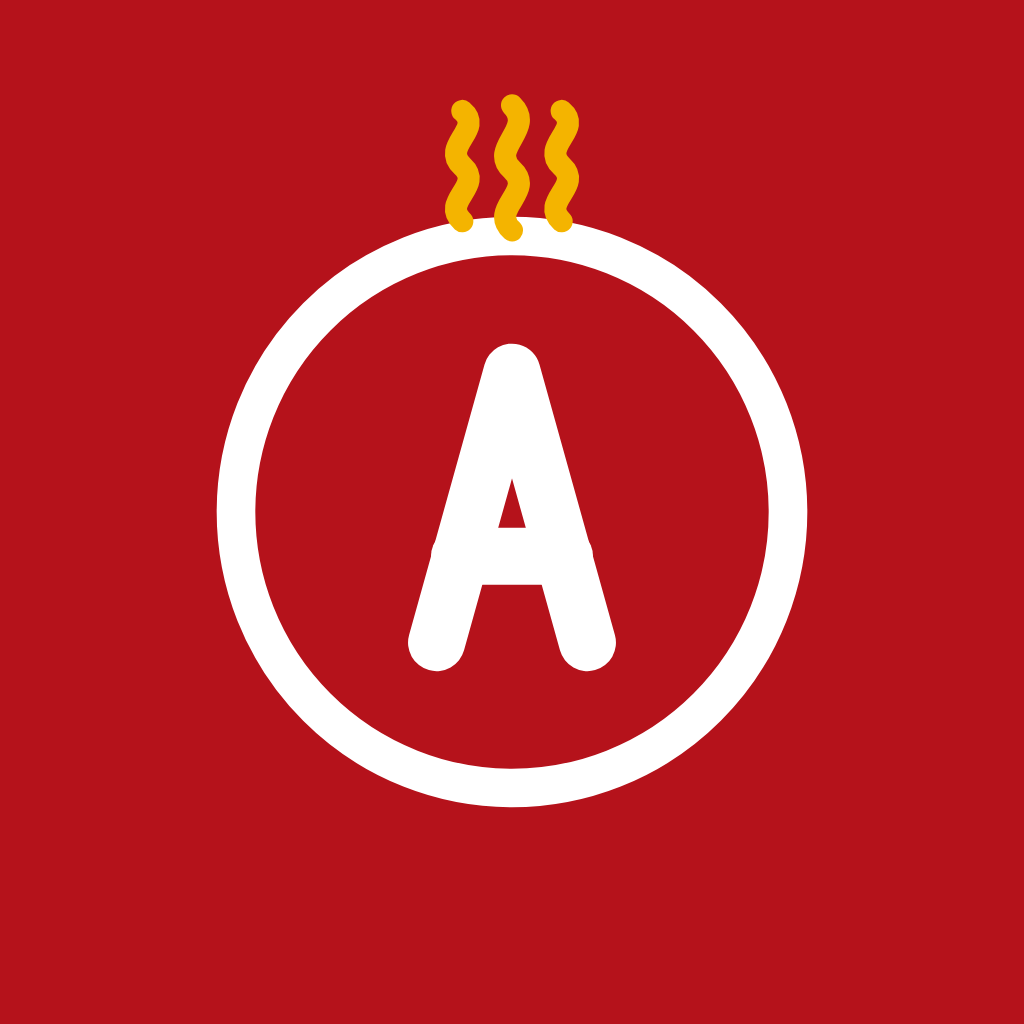
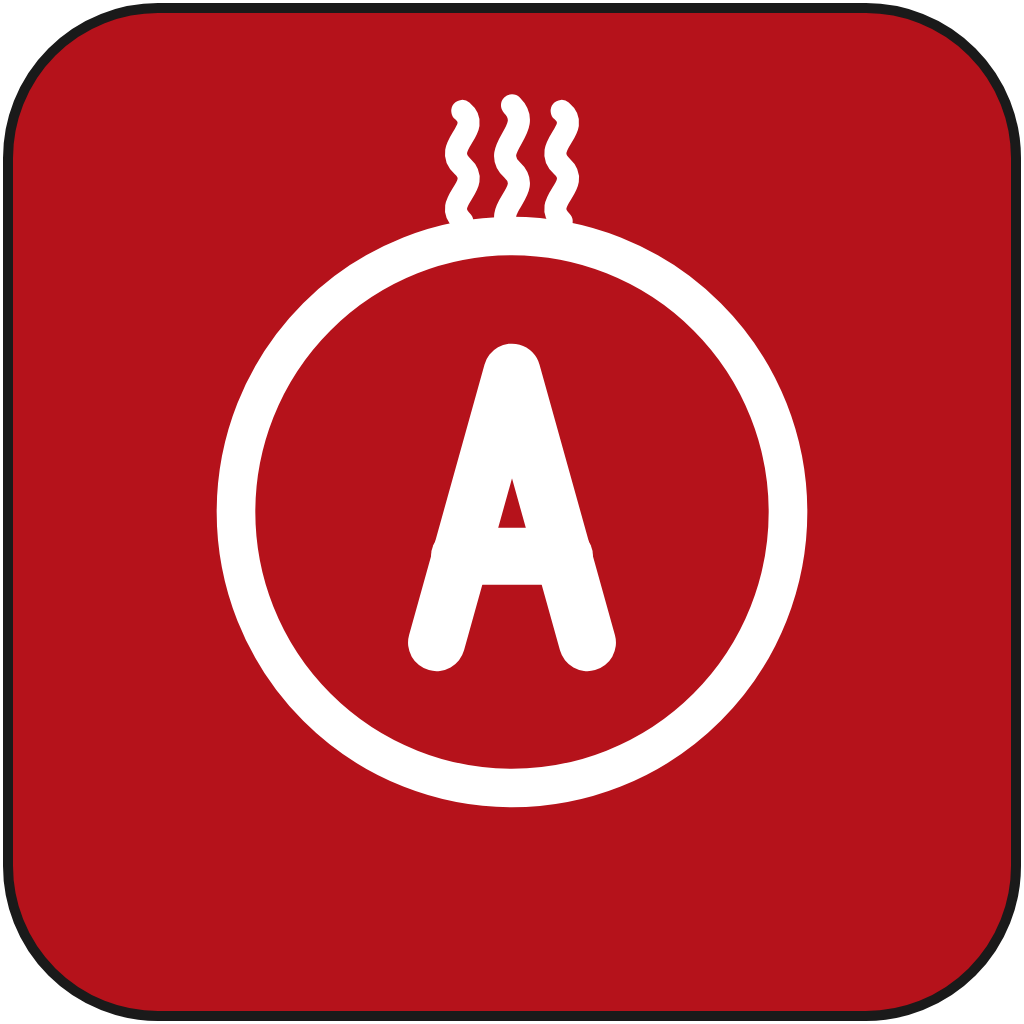
Marca do cliente: paleta vermelho+branco+preto (conceito KFC), símbolo único
Adota a tríade do KFC (apetite/limpeza/herança) a 100% na marca do
cliente e unifica tudo num só símbolo: quadrado vermelho + prato branco
+ retrato a traço (preto) da fundadora. Mesmo símbolo no ícone, no
logótipo e no novo letreiro vertical (montra/marketing).

- Ícone, adaptativo (frente), splash e favicon do cliente passam ao
  símbolo do retrato; monocromático/temático mantém o "A" abstrato.
- Logótipo e letreiro em vermelho+branco+preto; sem dourado na marca.
- Dourado reservado a realce funcional na app (selos, Prato do dia,
  estrelas) — paleta-base curta + uma cor de ação. Lógica dos selos
  inalterada.
- Operador (marca MB) inalterado.

Uso da imagem da fundadora mediante autorização; fotos-base fornecidas
pelo negócio.

Claude-Session: https://claude.ai/code/session_012YAn7mGDrLwbXxtn7pEh3R

Changed region(s): [[0.0, 0.0, 1.0, 1.0], [0.4375, 0.0938, 0.5625, 0.25]]

diff --git a/docs/marca/gerar.py b/docs/marca/gerar.py
@@ -1,15 +1,16 @@
 # Marcas das apps.
-# Cliente — Cozinha da Alexandra: rosto estilizado da fundadora (persona, estilo "Coronel" do KFC)
-#   dentro do prato creme, com vapor dourado. Versão abstrata (anel + "A" + vapor) usada no ícone
-#   monocromático (temático) do Android, onde um rosto a uma só cor não funciona.
-# Operador — Manda Bué: anel + monograma "MB" + linhas de velocidade douradas (entrega).
-VERMELHO = '#B5121B'; CARVAO = '#1F1A17'; BRANCO = '#FFFFFF'; DOURADO = '#F4B400'; SUAVE = '#5F6368'
-CREME = '#FBF0DA'; PELE = '#774C31'; PELE_ESC = '#5E3A24'; CABELO = '#241812'
-TOP = '#33403F'; TOP2 = '#46555A'; BOCA = '#50241B'
+# Cliente — Cozinha da Alexandra (conceito KFC, paleta VERMELHO + BRANCO + PRETO):
+#   quadrado vermelho + prato branco + retrato a traço (preto) da fundadora. Mesmo símbolo no
+#   ícone, logótipo e letreiro. Dourado NÃO entra na marca — fica só como realce funcional na app
+#   (selos, "Prato do dia", estrelas). Versão abstrata (anel + "A") só no ícone monocromático.
+# Operador — Manda Bué: anel + "MB" + linhas de velocidade (entrega), inalterado.
+VERMELHO = '#B5121B'; CARVAO = '#1F1A17'; PRETO = '#1A1A1A'; BRANCO = '#FFFFFF'; DOURADO = '#F4B400'
+SUAVE = '#5F6368'
+FONTE = 'Liberation Sans, Arial, Helvetica, sans-serif'
 
 
 def marca(anel=BRANCO, letras=BRANCO, linhas=DOURADO):
-    """Manda Bué (operador): anel + MB + linhas de velocidade. Área 1024, centro (512,512)."""
+    """Manda Bué (operador): anel + MB + linhas de velocidade. Centro (512,512)."""
     return f'''
   <g fill="none" stroke-linecap="round" stroke-linejoin="round">
     <circle cx="540" cy="512" r="292" stroke="{anel}" stroke-width="40"/>
@@ -19,8 +20,8 @@ def marca(anel=BRANCO, letras=BRANCO, linhas=DOURADO):
   </g>'''
 
 
-def marca_alexandra(anel=BRANCO, letra=BRANCO, vapor=DOURADO):
-    """Versão abstrata: anel + "A" + vapor (usada no ícone monocromático)."""
+def marca_A(anel=BRANCO, letra=BRANCO, vapor=BRANCO):
+    """Versão abstrata: anel + "A" + vapor (ícone monocromático e marca de apoio). Centro (512,512)."""
     return f'''
   <g fill="none" stroke-linecap="round" stroke-linejoin="round">
     <circle cx="512" cy="512" r="300" stroke="{anel}" stroke-width="42"/>
@@ -32,78 +33,82 @@ def marca_alexandra(anel=BRANCO, letra=BRANCO, vapor=DOURADO):
   </g>'''
 
 
-def rosto(vapor=True):
-    """Rosto estilizado da Alexandra dentro do prato creme. Centro (512,500)."""
-    v = f'''
-  <g fill="none" stroke="{DOURADO}" stroke-width="24" stroke-linecap="round">
-    <path d="M458 150 C434 128 482 112 458 90 C434 68 482 52 458 34"/>
-    <path d="M512 160 C486 136 538 118 512 94 C486 70 538 50 512 26"/>
-    <path d="M566 150 C542 128 590 112 566 90 C542 68 590 52 566 34"/>
-  </g>''' if vapor else ''
+def _retrato(cor=PRETO, dente=BRANCO):
+    """Retrato a traço (coords próprias, rosto ~ centro 600,540). Preto, sorriso aberto (Foto 2)."""
     return f'''
-  <clipPath id="prato"><circle cx="512" cy="500" r="336"/></clipPath>
-  <circle cx="512" cy="500" r="336" fill="{CREME}"/>
-  <g clip-path="url(#prato)">
-    <path d="M150 905 C210 718 352 664 512 664 C672 664 814 718 874 905 Z" fill="{TOP}"/>
-    <path d="M150 905 C210 760 352 712 512 712 C672 712 814 760 874 905 Z" fill="{TOP2}" opacity="0.5"/>
-    <path d="M454 566 h116 v96 a58 58 0 0 1 -116 0 Z" fill="{PELE_ESC}"/>
-    <ellipse cx="350" cy="470" rx="28" ry="40" fill="{PELE}"/>
-    <ellipse cx="674" cy="470" rx="28" ry="40" fill="{PELE}"/>
-    <circle cx="350" cy="516" r="14" fill="{DOURADO}"/>
-    <circle cx="674" cy="516" r="14" fill="{DOURADO}"/>
-    <path d="M362 452 C362 300 662 300 662 452 C662 580 596 648 512 648 C428 648 362 580 362 452 Z" fill="{PELE}"/>
-    <g fill="{CABELO}">
-      <path d="M360 452 C330 452 322 392 340 356 C318 330 338 286 372 288 C372 250 420 232 452 252 C470 214 548 210 572 250 C612 236 664 256 660 300 C700 302 712 356 686 390 C708 420 690 470 660 462 C664 404 646 366 614 352 C560 332 470 330 418 352 C384 366 362 400 360 452 Z"/>
-      <circle cx="356" cy="372" r="34"/><circle cx="392" cy="322" r="34"/><circle cx="440" cy="296" r="32"/>
-      <circle cx="500" cy="286" r="34"/><circle cx="560" cy="292" r="32"/><circle cx="612" cy="318" r="32"/>
-      <circle cx="652" cy="360" r="32"/><circle cx="668" cy="408" r="26"/><circle cx="346" cy="416" r="26"/>
-    </g>
-    <path d="M414 436 Q448 422 482 434" stroke="{CABELO}" stroke-width="10" fill="none" stroke-linecap="round"/>
-    <path d="M542 434 Q576 422 610 436" stroke="{CABELO}" stroke-width="10" fill="none" stroke-linecap="round"/>
-    <ellipse cx="450" cy="472" rx="27" ry="18" fill="{BRANCO}"/>
-    <ellipse cx="574" cy="472" rx="27" ry="18" fill="{BRANCO}"/>
-    <circle cx="453" cy="474" r="12" fill="{CABELO}"/>
-    <circle cx="571" cy="474" r="12" fill="{CABELO}"/>
-    <path d="M512 486 Q498 530 486 540 Q500 552 512 548 Q524 552 538 540 Q526 530 512 486 Z" fill="{PELE_ESC}" opacity="0.55"/>
-    <path d="M454 578 Q512 636 570 578 Q512 600 454 578 Z" fill="{BOCA}"/>
-    <path d="M470 582 Q512 598 554 582 Q512 592 470 582 Z" fill="{CREME}"/>
-    <circle cx="420" cy="528" r="22" fill="#8A5636" opacity="0.4"/>
-    <circle cx="604" cy="528" r="22" fill="#8A5636" opacity="0.4"/>
-  </g>{v}'''
+    <path d="M600 150 C468 150 372 240 360 366 C356 410 360 448 370 478 C384 432 410 392 448 372 C508 342 692 342 752 372 C790 392 816 432 830 478 C840 448 844 410 840 366 C828 240 732 150 600 150 Z" fill="{cor}"/>
+    <path d="M402 418 C388 520 402 612 470 674 C512 712 560 728 600 728 C640 728 688 712 730 674 C798 612 812 520 798 418" fill="none" stroke="{cor}" stroke-width="11" stroke-linecap="round"/>
+    <path d="M402 470 q-26 6 -20 44 q8 26 28 22" fill="none" stroke="{cor}" stroke-width="9"/>
+    <path d="M798 470 q26 6 20 44 q-8 26 -28 22" fill="none" stroke="{cor}" stroke-width="9"/>
+    <circle cx="410" cy="556" r="12" fill="none" stroke="{cor}" stroke-width="9"/>
+    <circle cx="790" cy="556" r="12" fill="none" stroke="{cor}" stroke-width="9"/>
+    <path d="M452 452 Q496 434 540 452" stroke="{cor}" stroke-width="10" fill="none" stroke-linecap="round"/>
+    <path d="M660 452 Q704 434 748 452" stroke="{cor}" stroke-width="10" fill="none" stroke-linecap="round"/>
+    <path d="M454 486 Q496 462 540 486 Q498 502 454 486 Z" fill="none" stroke="{cor}" stroke-width="9"/>
+    <path d="M660 486 Q704 462 748 486 Q706 502 660 486 Z" fill="none" stroke="{cor}" stroke-width="9"/>
+    <circle cx="497" cy="484" r="11" fill="{cor}"/>
+    <circle cx="703" cy="484" r="11" fill="{cor}"/>
+    <path d="M600 500 Q590 556 584 566" stroke="{cor}" stroke-width="8" fill="none" stroke-linecap="round"/>
+    <path d="M576 576 Q600 592 624 576" stroke="{cor}" stroke-width="8" fill="none" stroke-linecap="round"/>
+    <path d="M506 612 Q600 648 694 612 Q600 740 506 612 Z" fill="{dente}" stroke="{cor}" stroke-width="11" stroke-linejoin="round"/>
+    <path d="M524 620 Q600 648 676 620" stroke="{cor}" stroke-width="7" fill="none"/>
+    <path d="M486 596 Q470 626 486 656" stroke="{cor}" stroke-width="7" fill="none" stroke-linecap="round"/>
+    <path d="M714 596 Q730 626 714 656" stroke="{cor}" stroke-width="7" fill="none" stroke-linecap="round"/>'''
 
 
-def svg(conteudo, fundo=None, escala=1.0, tamanho=1024):
-    f = f'<rect width="1024" height="1024" fill="{fundo}"/>' if fundo else ''
+def simbolo_rosto(cx=512, cy=512, raio=438, esc=0.96):
+    """Prato branco + retrato preto (o símbolo da marca). Centro (cx,cy)."""
+    # retrato centrado: leva o seu centro visual (~600,500) para (cx,cy)
+    g = f'<g transform="translate({cx} {cy}) scale({esc}) translate(-600 -500)">{_retrato()}</g>'
+    return f'<circle cx="{cx}" cy="{cy}" r="{raio}" fill="{BRANCO}"/>{g}'
+
+
+def svg(conteudo, fundo=None, escala=1.0, tamanho=1024, keyline=False):
+    f = f'<rect x="8" y="8" width="1008" height="1008" rx="150" fill="{fundo}" stroke="{PRETO}" stroke-width="10"/>' if (fundo and keyline) else (f'<rect width="1024" height="1024" fill="{fundo}"/>' if fundo else '')
     t = f'translate({512 * (1 - escala)} {512 * (1 - escala)}) scale({escala})'
     return f'<svg xmlns="http://www.w3.org/2000/svg" width="{tamanho}" height="{tamanho}" viewBox="0 0 1024 1024">{f}<g transform="{t}">{conteudo}</g></svg>'
 
 
-def logotipo_alexandra(fundo=None):
-    """Logótipo horizontal: rosto da Alexandra num quadrado vermelho + nome."""
-    m = (svg(rosto(), VERMELHO, 0.9)
+def logotipo(fundo=None):
+    """Logótipo horizontal: símbolo (quadrado vermelho + prato + retrato) + nome. Vermelho+branco+preto."""
+    m = (svg(simbolo_rosto(), VERMELHO, 0.9, keyline=True)
          .replace('<svg xmlns="http://www.w3.org/2000/svg" width="1024" height="1024" viewBox="0 0 1024 1024">', '')
          .replace('</svg>', ''))
     f = f'<rect width="1600" height="480" fill="{fundo}"/>' if fundo else ''
-    fonte = 'Liberation Sans, Arial, Helvetica, sans-serif'
     return f'''<svg xmlns="http://www.w3.org/2000/svg" width="1600" height="480" viewBox="0 0 1600 480">{f}
   <defs><clipPath id="c"><rect x="40" y="40" width="400" height="400" rx="88"/></clipPath></defs>
   <g clip-path="url(#c)"><g transform="translate(40 40) scale(0.390625)">{m}</g></g>
-  <text x="500" y="214" font-family="{fonte}" font-weight="600" font-size="84" fill="{CARVAO}" letter-spacing="-1">Cozinha da</text>
-  <text x="500" y="348" font-family="{fonte}" font-weight="800" font-size="150" fill="{VERMELHO}" letter-spacing="-3">Alexandra</text>
-  <text x="506" y="408" font-family="{fonte}" font-size="40" fill="{SUAVE}" letter-spacing="6">ENTREGUE POR MANDA BUÉ</text>
+  <text x="500" y="214" font-family="{FONTE}" font-weight="600" font-size="84" fill="{PRETO}" letter-spacing="-1">Cozinha da</text>
+  <text x="500" y="348" font-family="{FONTE}" font-weight="800" font-size="150" fill="{VERMELHO}" letter-spacing="-3">Alexandra</text>
+  <text x="506" y="408" font-family="{FONTE}" font-weight="600" font-size="40" fill="{PRETO}" letter-spacing="6">ENTREGUE POR MANDA BUÉ</text>
+</svg>'''
+
+
+def letreiro():
+    """Letreiro vertical (montra/marketing): fundo vermelho + prato branco com retrato + nome."""
+    W, H = 1200, 1560
+    m = f'<g transform="translate(600 520) scale(0.95) translate(-600 -500)">{_retrato()}</g>'
+    return f'''<svg xmlns="http://www.w3.org/2000/svg" width="{W}" height="{H}" viewBox="0 0 {W} {H}">
+  <rect x="40" y="40" width="{W-80}" height="{H-80}" rx="110" fill="{VERMELHO}" stroke="{BRANCO}" stroke-width="12"/>
+  <circle cx="600" cy="520" r="372" fill="{BRANCO}"/>
+  <clipPath id="med"><circle cx="600" cy="520" r="372"/></clipPath>
+  <g clip-path="url(#med)">{m}</g>
+  <text x="600" y="1170" text-anchor="middle" font-family="{FONTE}" font-weight="600" font-size="96" fill="{BRANCO}" letter-spacing="-1">Cozinha da</text>
+  <text x="600" y="1322" text-anchor="middle" font-family="{FONTE}" font-weight="800" font-size="190" fill="{BRANCO}" letter-spacing="-5">Alexandra</text>
+  <text x="600" y="1404" text-anchor="middle" font-family="{FONTE}" font-weight="600" font-size="46" fill="#F3D9DA" letter-spacing="7">ENTREGUE POR MANDA BUÉ</text>
 </svg>'''
 
 
 ficheiros = {}
 
-# Cliente — Cozinha da Alexandra (rosto); monocromático usa a marca abstrata
-r = rosto()
-ficheiros['cliente/icon.png'] = (svg(r, VERMELHO, 0.92), 1024)
+# Cliente — símbolo da marca (rosto, vermelho+branco+preto); monocromático usa o "A"
+r = simbolo_rosto()
+ficheiros['cliente/icon.png'] = (svg(r, VERMELHO, 0.92, keyline=True), 1024)
 ficheiros['cliente/android-icon-background.png'] = (svg('', VERMELHO), 512)
-ficheiros['cliente/android-icon-foreground.png'] = (svg(r, None, 0.72), 512)
-ficheiros['cliente/android-icon-monochrome.png'] = (svg(marca_alexandra(BRANCO, BRANCO, BRANCO), None, 0.72), 432)
-ficheiros['cliente/splash-icon.png'] = (svg(rosto(), None, 1.0), 1024)
-ficheiros['cliente/favicon.png'] = (svg(r, VERMELHO, 0.92), 48)
+ficheiros['cliente/android-icon-foreground.png'] = (svg(r, None, 0.68), 512)
+ficheiros['cliente/android-icon-monochrome.png'] = (svg(marca_A(BRANCO, BRANCO, BRANCO), None, 0.72), 432)
+ficheiros['cliente/splash-icon.png'] = (svg(r, None, 0.96), 1024)
+ficheiros['cliente/favicon.png'] = (svg(r, VERMELHO, 0.92, keyline=True), 48)
 
 # Operador — Manda Bué (carvão)
 mo = marca(anel=VERMELHO)
@@ -115,10 +120,11 @@ ficheiros['operador/splash-icon.png'] = (svg(marca(anel=VERMELHO), None, 1.0), 1
 ficheiros['operador/favicon.png'] = (svg(mo, CARVAO, 0.92), 48)
 
 # Peças de marca (docs)
-ficheiros['marca/logotipo.png'] = (logotipo_alexandra(), None)
-ficheiros['marca/logotipo-fundo-claro.png'] = (logotipo_alexandra('#FFFFFF'), None)
-ficheiros['marca/simbolo.png'] = (svg(rosto(), VERMELHO, 0.92), 1024)
-ficheiros['marca/simbolo-abstrato.png'] = (svg(marca_alexandra(), VERMELHO, 0.92), 1024)
+ficheiros['marca/logotipo.png'] = (logotipo(), None)
+ficheiros['marca/logotipo-fundo-claro.png'] = (logotipo('#FFFFFF'), None)
+ficheiros['marca/letreiro.png'] = (letreiro(), None)
+ficheiros['marca/simbolo.png'] = (svg(simbolo_rosto(), VERMELHO, 0.92, keyline=True), 1024)
+ficheiros['marca/simbolo-abstrato.png'] = (svg(marca_A(), VERMELHO, 0.92, keyline=True), 1024)
 ficheiros['marca/simbolo-operador.png'] = (svg(marca(anel=VERMELHO), CARVAO, 0.92), 1024)
 
 import json, os
@@ -128,10 +134,9 @@ for nome, (conteudo, tam) in ficheiros.items():
     caminho_svg = 'svg/' + nome.replace('/', '__').replace('.png', '.svg')
     open(caminho_svg, 'w').write(conteudo)
     lista.append({'svg': caminho_svg, 'png': 'out/' + nome, 'tamanho': tam})
-open('svg/logotipo.svg', 'w').write(logotipo_alexandra())
-open('svg/simbolo.svg', 'w').write(svg(rosto(), VERMELHO, 0.92))
-open('simbolo.svg', 'w').write(svg(rosto(), VERMELHO, 0.92))
-open('simbolo-icone.svg', 'w').write(svg(rosto(), VERMELHO, 0.92))
-open('logotipo.svg', 'w').write(logotipo_alexandra())
+open('svg/logotipo.svg', 'w').write(logotipo())
+open('svg/simbolo.svg', 'w').write(svg(simbolo_rosto(), VERMELHO, 0.92, keyline=True))
+open('simbolo.svg', 'w').write(svg(simbolo_rosto(), VERMELHO, 0.92, keyline=True))
+open('logotipo.svg', 'w').write(logotipo())
 json.dump(lista, open('lista.json', 'w'), indent=1)
 print(len(lista), 'ficheiros')

diff --git a/docs/marca/README.md b/docs/marca/README.md
@@ -1,25 +1,25 @@
 # Marca
 
-Há duas assinaturas, uma por app, com a mesma linguagem gráfica (anel = tacho/prato visto de cima,
-traço contínuo, dourado de realce) e as cores que lembram a bandeira de Angola sem a copiar
-(vermelho, carvão e dourado).
-
-- **Cliente — Cozinha da Alexandra:** **rosto estilizado da fundadora** (persona, no espírito do
-  Coronel do KFC) dentro do prato creme, com **vapor dourado** — comida quente de casa, feita por uma
-  pessoa real a quem os clientes são fiéis. Há uma **versão abstrata** (anel + monograma **A** +
-  vapor), usada no ícone monocromático/temático do Android, onde um rosto a uma só cor não funciona.
-  "Manda Bué" aparece só como endosso discreto ("entregue por Manda Bué"), nunca com símbolo próprio.
+- **Cliente — Cozinha da Alexandra:** no espírito do KFC (marca de comida à volta de uma pessoa real),
+  na paleta **vermelho + branco + preto** (apetite, limpeza, herança). Um só símbolo em todo o lado —
+  **quadrado vermelho + prato branco + retrato a traço (preto) da fundadora** — usado no ícone, no
+  logótipo e no letreiro. Há uma **versão abstrata** (anel + monograma **A**) para o ícone
+  monocromático/temático do Android, onde um retrato a uma só cor não funciona. "Manda Bué" aparece
+  só como endosso discreto ("entregue por Manda Bué"), nunca com símbolo próprio.
 - **Operador — Manda Bué:** anel com o monograma **MB** e três **linhas de velocidade** douradas à
-  esquerda — a camada de logística/entrega.
+  esquerda — a camada de logística/entrega (carvão).
+
+O **dourado não entra na marca do cliente** — fica reservado a **realce funcional** na app (selos,
+"Prato do dia", estrelas): paleta-base curta + uma cor de ação, como nas grandes marcas.
 
 | Ficheiro | Uso |
 |---|---|
-| `simbolo.svg` / `simbolo.png` | Símbolo da app do cliente — rosto da Alexandra (fundo vermelho) |
-| `simbolo-abstrato.png` | Versão abstrata (anel + A + vapor), p/ monocromático/usos a uma cor |
+| `simbolo.svg` / `simbolo.png` | Símbolo da marca — retrato da Alexandra (quadrado vermelho + prato) |
+| `simbolo-abstrato.png` | Versão abstrata (anel + A), p/ monocromático/usos a uma cor |
 | `simbolo-operador.png` | Símbolo da app do operador — Manda Bué (fundo carvão, anel vermelho) |
 | `logotipo.svg` / `logotipo.png` | Logótipo horizontal da Cozinha da Alexandra, fundo transparente |
 | `logotipo-fundo-claro.png` | Logótipo horizontal sobre branco |
-| `simbolo-icone.svg` | Fonte do ícone da app do cliente (1024 × 1024) |
+| `letreiro.png` | Letreiro vertical (montra, menus, marketing, Play Store, redes) |
 
 > Uso da imagem da fundadora mediante a sua autorização. As fotos-base foram fornecidas pelo negócio.
 
@@ -40,7 +40,7 @@ desenhos. Os assets do operador mantêm a marca MB e não são alterados aqui.
 | Marca clara | `#FBE9EA` | Botões leves ("Adicionar"), texto vermelho por cima: 5,85:1 |
 | Carvão | `#1F1A17` | Fundo da app do operador e do seu ícone |
 | Dourado (gráfico) | `#B07800` | Estrelas e molduras sobre branco: 3,8:1 |
-| Dourado (fundo) | `#F4B400` | Selos ("Prato do dia"), sempre com texto escuro: 9,4:1; vapor (cliente) e linhas de velocidade (operador) dos símbolos |
+| Dourado (fundo) | `#F4B400` | Selos ("Prato do dia"), sempre com texto escuro: 9,4:1; realce funcional (não entra na marca do cliente); linhas de velocidade do símbolo do operador |
 | Texto | `#1A1A1A` | 17,4:1 |
 | Texto suave | `#5F6368` | 6,05:1 |
 | Contorno de campos | `#8A8A8A` | 3,45:1 (visível ao sol) |
